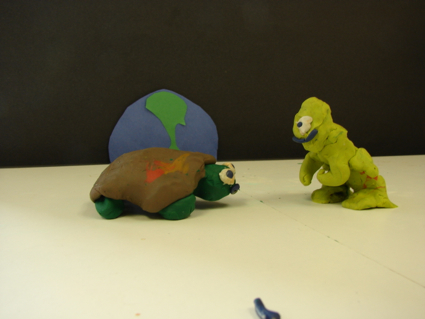
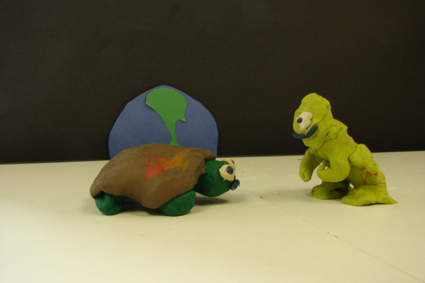
Even More Minor Mobile Edits
Yay for progress!

Changed region(s): [[0.0, 0.2827, 1.0, 0.8481], [0.5812, 0.9329, 0.6729, 1.0], [0.6118, 0.6219, 0.6424, 0.6502]]

diff --git a/cyanide_style.css b/cyanide_style.css
@@ -391,20 +391,32 @@ div.gallerypic img {
 
 /*PCA*/
 .robotPhotos {
+	/*display:block;
 	margin-left:auto;
 	margin-right:auto;
-	width:645px;
+	width:100%;*/
 }
 
 .robotPhotos img {
-	padding-right:5px;
+	/*padding-right:5px;*/
 	padding-bottom:20px;
+
+	display:block;
+	margin-left:auto;
+	margin-right:auto;
+	height:100%;
 }
 
 .aniPhotos {
 	margin-left:auto;
 	margin-right:auto;
-	width:855px;
+	/*width:855px;*/
+}
+
+.aniPhotos img {
+	width:48%;
+	height:48%;
+	display:inline-block;
 }
 	
 

diff --git a/mobile.css b/mobile.css
@@ -293,7 +293,7 @@ div.gallerypic {
     	display: inline-block;
     	/*width: 230px;
 	height: 170px;*/
-	width:30%;
+	width:28%;
 }
 
 
